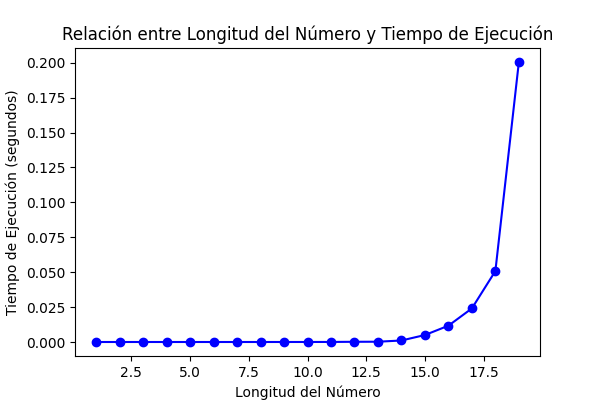
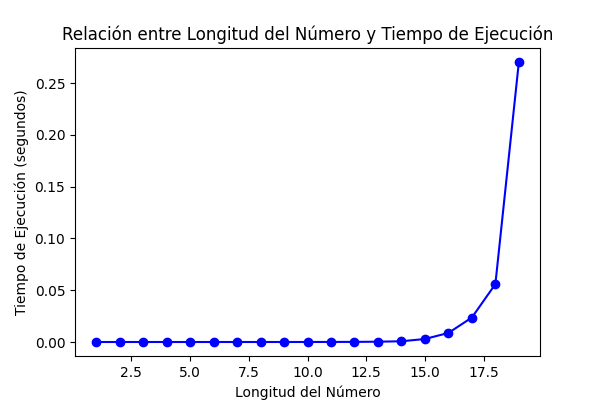
Test.py update

diff --git a/src/test.py b/src/test.py
@@ -1,5 +1,6 @@
 from time import perf_counter
 import random
+from typing import Callable
 
 import matplotlib.pyplot as plt
 import pandas as pd
@@ -47,35 +48,48 @@ def funct_tests() -> pd.DataFrame:
 
 
 
-def perf_tests() -> pd.DataFrame:
+def perf_tests(fn: Callable, max: int, nargs: int = 1, iterations: int = ITERATIONS) -> pd.DataFrame:
     """
-    Tests the performance of functions.
+    Tests the performance of functions, giving them random int arguments up to `max`.
 
-    :return:
+    :param fn: function to test
+    :param nargs: number of arguments of the function.
+    :param iterations: number of iterations per digit.
+
+    :return: DataFrame with colums {'a': arg a, ..., 'time': time it took to compute, 'order': number of digits, 'result': result}
     """
 
-    df = pd.DataFrame(columns = ['n', 'time', 'order','result'])
+    columns = [ chr(ord('a') + i) for i in range(nargs) ]
+    columns.extend(['time', 'order','result'])
+
+    df = pd.DataFrame(columns = columns)
 
     minN = 0
     maxN = 9
 
-    while maxN < primeslib.MAX_UINT:
+    while maxN < max:
         counter = 0
 
-        while counter < ITERATIONS:
-            n = random.randint(minN, maxN)
+        while counter < iterations:
+            args = [ random.randint(minN, maxN) for _ in range(nargs) ]
+
             tic = perf_counter()
-            resultado_actual = primeslib.is_prime(n)
+            resultado_actual = fn(*args)
             toc = perf_counter()
 
-            results = pd.Series(
+            results_dict = {  # {'a': args[0], ...}
+                chr(ord('a') + i): args[i]
+                for i in range(nargs)
+            }
+
+            results_dict.update(
                 {
-                    'n': n,
                     'time': toc - tic,
                     'order': len(str(maxN)),
                     'result': resultado_actual
                 }
             )
+            results = pd.Series(results_dict)
 
             # update df
             df.loc[len(df)] = results
@@ -86,11 +100,11 @@ def perf_tests() -> pd.DataFrame:
         minN = maxN
         maxN = maxN*10
 
-        print(f"Iteración {len(str(maxN))}: {n}")
+        print(f"Iteración {len(str(maxN))}: {args}")
         print(f"Tiempo de ejecución: {toc - tic} segundos\n")
 
 
-    return df.sort_values(by='n', ignore_index=True)
+    return df
 
 
 
@@ -105,6 +119,9 @@ def plot_performance(numeros, tiempos, filename: str, title: str, xlabel: str, y
     plt.xlabel(xlabel)
     plt.ylabel(ylabel)
 
+    plt.xticks(range(int(min(numeros)), int(max(numeros))+1))
+    plt.yticks(range(int(min(tiempos)), int(max(tiempos))+1))
+
     # Mostrar el gráfico
     plt.savefig(f'{IMAGES_OUTPUT_FOLDER}/{filename}.png')
 
@@ -113,37 +130,54 @@ def plot_performance(numeros, tiempos, filename: str, title: str, xlabel: str, y
 
 if __name__ == "__main__":
 
-    results_df = perf_tests()
+    # PRIMES
 
-    #funct_df = funct_tests()
+    # results_df = perf_tests(primeslib.is_prime, primeslib.MAX_UINT).sort_values(by='a', ignore_index=True).rename(columns={'a': 'n'})
 
-    results_df.to_csv(f'{CSV_OUTPUT_FOLDER}/output_primes.csv')
+    # funct_df = funct_tests()
 
-    #funct_df.to_csv(f'{CSV_OUTPUT_FOLDER}/output_primes_fucnt_test.csv')
+    # results_df.to_csv(f'{CSV_OUTPUT_FOLDER}/output_primes.csv')
+
+    # funct_df.to_csv(f'{CSV_OUTPUT_FOLDER}/output_primes_fucnt_test.csv')
 
 
-    #results_df = pd.read_csv(f'{CSV_OUTPUT_FOLDER}/output_primes.csv')
+    # results_df = pd.read_csv(f'{CSV_OUTPUT_FOLDER}/output_primes.csv')
+
+    # avg = results_df.groupby('order')['time'].mean()  # average per order
+
+    # plot_performance(
+    #     avg.index,
+    #     avg.values,
+    #     filename='scatter_plot_primes',
+    #     title='Relación entre Longitud del Número y Tiempo de Ejecución',
+    #     xlabel='Longitud del Número',
+    #     ylabel='Tiempo de Ejecución (segundos)'
+    # )
+
+    # primes = results_df.loc[results_df['result'] == True]  # only true values
+    # plot_performance(
+    #     primes['n'],
+    #     primes['time'],
+    #     filename='scatter_plot_primes_only_primes',
+    #     title='Relación entre números primos y Tiempo de Ejecución',
+    #     xlabel='n',
+    #     ylabel='Tiempo de Ejecución (segundos)'
+    # )
+
+
+    # GCD
+
+    
+    results_df = perf_tests(gcdlib.gcd_factorize, 10e8, nargs=2, iterations=50).sort_values(by='a', ignore_index=True)
 
     avg = results_df.groupby('order')['time'].mean()  # average per order
-
     plot_performance(
         avg.index,
         avg.values,
-        filename='scatter_plot_primes',
+        filename='scatter_plot_gcd',
         title='Relación entre Longitud del Número y Tiempo de Ejecución',
         xlabel='Longitud del Número',
         ylabel='Tiempo de Ejecución (segundos)'
     )
-
-    primes = results_df.loc[results_df['result'] == True]  # only true values
-    plot_performance(
-        primes['n'],
-        primes['time'],
-        filename='scatter_plot_primes_only_primes',
-        title='Relación entre números primos y Tiempo de Ejecución',
-        xlabel='n',
-        ylabel='Tiempo de Ejecución (segundos)'
-    )
-
 
 

diff --git a/src/gcd/gcdlib.cpp b/src/gcd/gcdlib.cpp
@@ -15,6 +15,8 @@ PYBIND11_MODULE(gcdlib, m) {
 
     m.doc() = "C++ Greatest Common Denominator implementations";
 
+    m.attr("MAX_INT") = py::cast(INT64_MAX);
+
     // functions
     m.def(
         "gcd_factorize", &(gcd_factorize<int64_t>),
